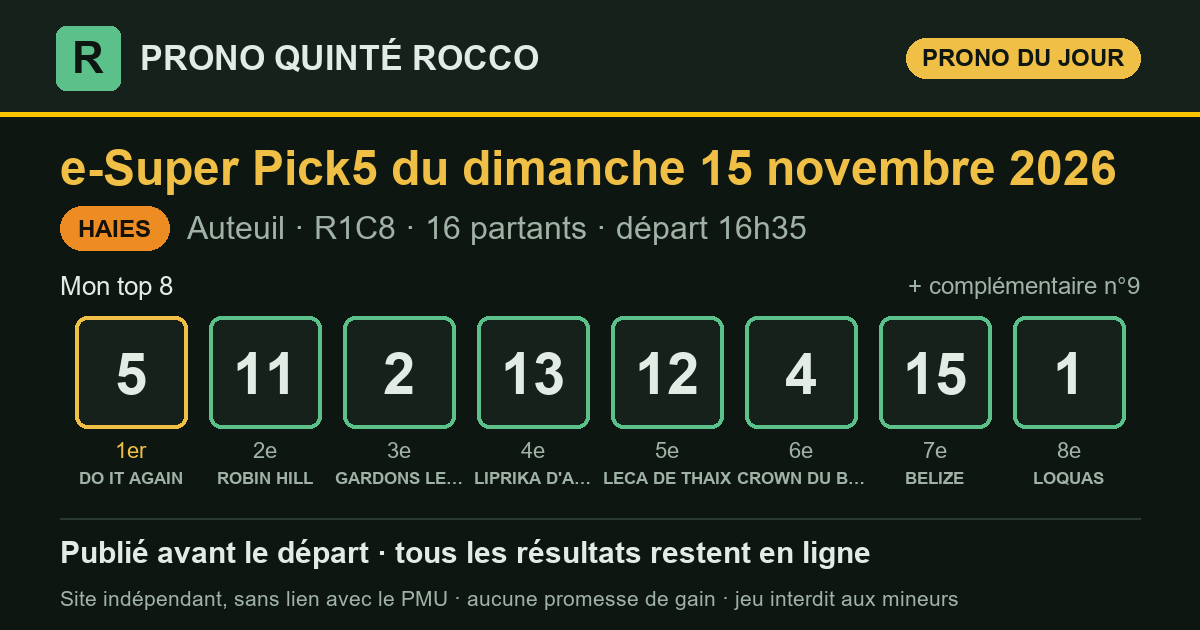
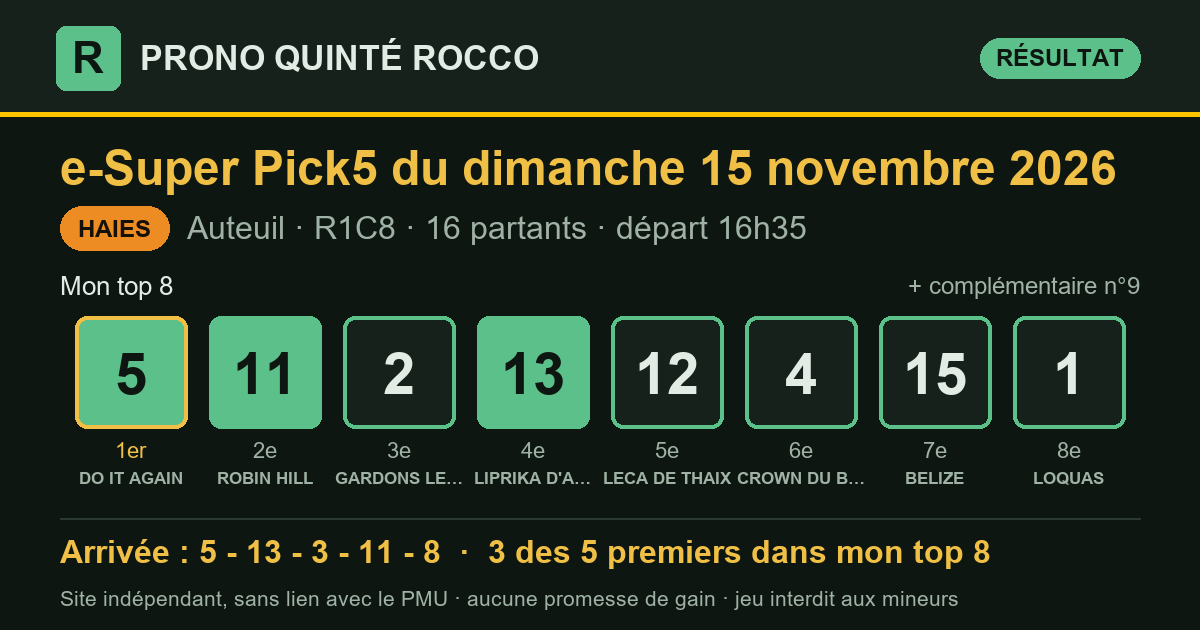
Résultat du e-Super Pick5 2026-11-15 Auteuil R1C8 — publié le 15/11/2026 16:56 (heure de Paris)

diff --git a/superpick5-partants.html b/superpick5-partants.html
@@ -3,7 +3,7 @@
 <head>
 <meta charset="utf-8">
 <meta name="viewport" content="width=device-width, initial-scale=1, viewport-fit=cover">
-<title>Partants du Super Pick 5 du dimanche 15 novembre 2026 : Prix Rmc - Prix Count Schomberg — Prono Quinté Rocco</title>
+<title>Partants du Super Pick 5 du lundi 16 novembre 2026 : Prix de Paimpol — Prono Quinté Rocco</title>
 <meta name="description" content="Les partants du prochain Super Pick 5 (e-Super Pick5 ; programme officiel du PMU), avec le rang de chaque cheval dans mon prono et les liens vers les pronostics de la presse.">
 <link rel="canonical" href="https://prono-quinte-rocco.fr/superpick5-partants.html">
 <link rel="stylesheet" href="style.css?v=16feb868">
@@ -13,7 +13,7 @@
 <meta property="og:site_name" content="Prono Quinté Rocco">
 <meta property="og:locale" content="fr_FR">
 <meta property="og:type" content="website">
-<meta property="og:title" content="Partants du Super Pick 5 du dimanche 15 novembre 2026 : Prix Rmc - Prix Count Schomberg — Prono Quinté Rocco">
+<meta property="og:title" content="Partants du Super Pick 5 du lundi 16 novembre 2026 : Prix de Paimpol — Prono Quinté Rocco">
 <meta property="og:description" content="Les partants du prochain Super Pick 5 (e-Super Pick5 ; programme officiel du PMU), avec le rang de chaque cheval dans mon prono et les liens vers les pronostics de la presse.">
 <meta property="og:url" content="https://prono-quinte-rocco.fr/superpick5-partants.html">
 <meta name="twitter:card" content="summary">
@@ -30,100 +30,90 @@
   <p class="surtitre">Programme officiel du PMU</p>
   <h1>Les partants du prochain <span class="nobr">e-Super Pick5</span></h1>
   <div class="fiche-course">
-    <p class="fiche-date">Dimanche 15 novembre 2026</p>
-    <div class="fiche-rc"><span class="pastille" title="Réunion 1">R1</span><span class="pastille" title="Course 8">C8</span><span class="fiche-nom">Prix Rmc - Prix Count Schomberg</span></div>
-    <p class="meta"><span class="type t-haies">Haies</span>Auteuil · 4 300 m · 16 partants</p>
-    <p class="fiche-depart">Départ <b>16:35</b> <span>heure de Paris</span></p>
+    <p class="fiche-date">Lundi 16 novembre 2026</p>
+    <div class="fiche-rc"><span class="pastille" title="Réunion 1">R1</span><span class="pastille" title="Course 7">C7</span><span class="fiche-nom">Prix de Paimpol</span></div>
+    <p class="meta"><span class="type t-attele">Trot attelé</span>Vincennes · 2 700 m · 14 partants</p>
+    <p class="fiche-depart">Départ <b>17:25</b> <span>heure de Paris</span></p>
   </div>
   <p class="surtitre">Les pronostics ailleurs sur le web</p>
-  <div class="liens"><a class="lien-ext" href="https://www.turfoo.fr/programmes-courses/261115/reunion1-auteuil/course8-prix-rmc-prix-count-schomberg/pronostics-presse/" rel="noopener" target="_blank"><b>Les pronostics de la presse →</b><span>sur Turfoo (site extérieur)</span></a><a class="lien-ext" href="https://www.geny.com/programme/2026-11-15" rel="noopener" target="_blank"><b>Partants et pronostics →</b><span>programme du jour sur Geny (site extérieur)</span></a></div>
+  <div class="liens"><a class="lien-ext" href="https://www.turfoo.fr/programmes-courses/261116/reunion1-vincennes/course7-prix-de-paimpol/pronostics-presse/" rel="noopener" target="_blank"><b>Les pronostics de la presse →</b><span>sur Turfoo (site extérieur)</span></a><a class="lien-ext" href="https://www.geny.com/programme/2026-11-16" rel="noopener" target="_blank"><b>Partants et pronostics →</b><span>programme du jour sur Geny (site extérieur)</span></a></div>
   <div class="liste-boite"><table class="liste-partants">
     <thead><tr><th>N°</th><th>Cheval</th><th class="cote"><span class="long">Cote du matin</span><span class="court">Cote</span></th>
     <th class="ia"><span class="long">Mon prono</span><span class="court">Prono</span></th></tr></thead>
     <tbody><tr>
   <td><span class="tapis petit">1</span></td>
-  <td><span class="cheval">LOQUAS</span><span class="sous">K.NABET · Y.FOUIN (S)</span></td>
-  <td class="cote num">10,0</td>
-  <td class="ia"><span class="etat place">8<sup>e</sup></span></td>
+  <td><span class="cheval">LOUBIANA DU BOURG</span><span class="sous">A. THOMAS · A. THOMAS</span></td>
+  <td class="cote num">—</td>
+  <td class="ia">—</td>
 </tr><tr>
   <td><span class="tapis petit">2</span></td>
-  <td><span class="cheval">GARDONS LE SOURIRE</span><span class="sous">T.CHEVILLARD · GAB.LEENDERS (S)</span></td>
-  <td class="cote num">15,0</td>
-  <td class="ia"><span class="etat place">3<sup>e</sup></span></td>
+  <td><span class="cheval">LA MISS ROYALE</span><span class="sous">PH. DAUGEARD · PH. DAUGEARD</span></td>
+  <td class="cote num">—</td>
+  <td class="ia">—</td>
 </tr><tr>
   <td><span class="tapis petit">3</span></td>
-  <td><span class="cheval">JAGUAR DU BERLAIS</span><span class="sous">THO .JOURNIAC · E.GRALL (S)</span></td>
-  <td class="cote num">12,0</td>
+  <td><span class="cheval">LILIE D&#x27;OMAHA</span><span class="sous">M. ABRIVARD · M. ABRIVARD</span></td>
+  <td class="cote num">—</td>
   <td class="ia">—</td>
 </tr><tr>
   <td><span class="tapis petit">4</span></td>
-  <td><span class="cheval">CROWN DU BERLAIS</span><span class="sous">L.ZULIANI · LAGENESTE &amp; MACAIRE (S)</span></td>
-  <td class="cote num">12,0</td>
-  <td class="ia"><span class="etat place">6<sup>e</sup></span></td>
+  <td><span class="cheval">LESPANA DU BOCAGE</span><span class="sous">B. ROCHARD · M. SASSIER</span></td>
+  <td class="cote num">—</td>
+  <td class="ia">—</td>
 </tr><tr>
   <td><span class="tapis petit">5</span></td>
-  <td><span class="cheval">DO IT AGAIN</span><span class="sous">J.REVELEY · N. GEORGE &amp; A. ZETTERHOLM</span></td>
-  <td class="cote num">6,9</td>
-  <td class="ia"><span class="etat place">1<sup>er</sup></span></td>
+  <td><span class="cheval">LADY DU CHATELET</span><span class="sous">TH. BIZOUX · CL. THOMAIN</span></td>
+  <td class="cote num">—</td>
+  <td class="ia">—</td>
 </tr><tr>
   <td><span class="tapis petit">6</span></td>
-  <td><span class="cheval">MOTY MARC</span><span class="sous">B.LE CLERC · F.BELLEMERE</span></td>
-  <td class="cote num">31,0</td>
+  <td><span class="cheval">LOLITA STEED</span><span class="sous">M. IONESCU · R. DERIEUX</span></td>
+  <td class="cote num">—</td>
   <td class="ia">—</td>
 </tr><tr>
   <td><span class="tapis petit">7</span></td>
-  <td><span class="cheval">SAINT ROBIN</span><span class="sous">G.FAIVRE-PICON · GAB.LEENDERS (S)</span></td>
-  <td class="cote num">50,0</td>
+  <td><span class="cheval">LUNE LUMALO</span><span class="sous">P.PH. PLOQUIN · J.G. VAN EECKHAUTE</span></td>
+  <td class="cote num">—</td>
   <td class="ia">—</td>
 </tr><tr>
   <td><span class="tapis petit">8</span></td>
-  <td><span class="cheval">JOST</span><span class="sous">L.PHILIPPERON · M.SEROR (S)</span></td>
-  <td class="cote num">11,0</td>
+  <td><span class="cheval">LA STAR</span><span class="sous">A. ABRIVARD · Mme S. RAIMOND</span></td>
+  <td class="cote num">—</td>
   <td class="ia">—</td>
 </tr><tr>
   <td><span class="tapis petit">9</span></td>
-  <td><span class="cheval">LEMNOS</span><span class="sous">A.ZULIANI · E.ANDIGNE D&#x27;</span></td>
-  <td class="cote num">25,0</td>
-  <td class="ia"><span class="etat place">compl.</span></td>
+  <td><span class="cheval">LYRE D&#x27;ERABLE</span><span class="sous">D. THOMAIN · CL. THOMAIN</span></td>
+  <td class="cote num">—</td>
+  <td class="ia">—</td>
 </tr><tr>
   <td><span class="tapis petit">10</span></td>
-  <td><span class="cheval">NEVER RISK</span><span class="sous">N.FERREIRA · H.MERIENNE (S)</span></td>
-  <td class="cote num">31,0</td>
+  <td><span class="cheval">LADY DES ARRIS</span><span class="sous">A. COLLETTE · V. LEBARQUE</span></td>
+  <td class="cote num">—</td>
   <td class="ia">—</td>
 </tr><tr>
   <td><span class="tapis petit">11</span></td>
-  <td><span class="cheval">ROBIN HILL</span><span class="sous">T.BEAURAIN · L.CARBERRY (S)</span></td>
-  <td class="cote num">7,4</td>
-  <td class="ia"><span class="etat place">2<sup>e</sup></span></td>
-</tr><tr>
-  <td><span class="tapis petit">12</span></td>
-  <td><span class="cheval">LECA DE THAIX</span><span class="sous">M.CHAILLOLEAU · E.ANDIGNE D&#x27;</span></td>
-  <td class="cote num">27,0</td>
-  <td class="ia"><span class="etat place">5<sup>e</sup></span></td>
-</tr><tr>
-  <td><span class="tapis petit">13</span></td>
-  <td><span class="cheval">LIPRIKA D&#x27;ANJOU</span><span class="sous">F.GILES · H.MERIENNE (S)</span></td>
-  <td class="cote num">7,9</td>
-  <td class="ia"><span class="etat place">4<sup>e</sup></span></td>
-</tr><tr>
-  <td><span class="tapis petit">14</span></td>
-  <td><span class="cheval">SOLIGO</span><span class="sous">A.CHESNEAU · Y.FOUIN (S)</span></td>
-  <td class="cote num">11,0</td>
+  <td><span class="cheval">LEONTINE CASH</span><span class="sous">E. RAFFIN · P. HACHIN</span></td>
+  <td class="cote num">—</td>
   <td class="ia">—</td>
 </tr><tr>
-  <td><span class="tapis petit">15</span></td>
-  <td><span class="cheval">BELIZE</span><span class="sous">G.MEUNIER · D.BRESSOU</span></td>
-  <td class="cote num">11,0</td>
-  <td class="ia"><span class="etat place">7<sup>e</sup></span></td>
+  <td><span class="tapis petit">12</span></td>
+  <td><span class="cheval">LYLOU DES THUYAS</span><span class="sous">A. REBECHE · P.Y. VERVA</span></td>
+  <td class="cote num">—</td>
+  <td class="ia">—</td>
 </tr><tr>
-  <td><span class="tapis petit">16</span></td>
-  <td><span class="cheval">ESASTAR</span><span class="sous">M.BEHOCARAY · D.BRESSOU</span></td>
-  <td class="cote num">37,0</td>
+  <td><span class="tapis petit">13</span></td>
+  <td><span class="cheval">LA KIFFANCE PIYA</span><span class="sous">S. ERNAULT · S. ERNAULT</span></td>
+  <td class="cote num">—</td>
+  <td class="ia">—</td>
+</tr><tr>
+  <td><span class="tapis petit">14</span></td>
+  <td><span class="cheval">LA CALLAS</span><span class="sous">A. ANDRE · St. PROVOOST</span></td>
+  <td class="cote num">—</td>
   <td class="ia">—</td>
 </tr></tbody>
   </table></div>
-  <p class="meta">La colonne « Mon prono » donne le rang de chaque cheval dans mon top 8, tel qu&#x27;il est publié sur ce site. Sous chaque cheval : jockey · entraîneur. Partants et cotes : programme
-  officiel du PMU, lu le 15/11 à 16:11 (heure de Paris). NP = non-partant.</p>
+  <p class="meta">Mon prono de cette course sera publié le matin de la course, avant le départ. Sous chaque cheval : driver · entraîneur. Partants et cotes : programme
+  officiel du PMU, lu le 15/11 à 16:56 (heure de Paris). NP = non-partant.</p>
 </section>
 </main>
 <footer class="pied">

diff --git a/superpick5.html b/superpick5.html
@@ -16,7 +16,7 @@
 <meta property="og:title" content="Pronostic Super Pick 5 du dimanche 15 novembre 2026 : Prix Rmc - Prix Count Schomberg — Prono Quinté Rocco">
 <meta property="og:description" content="Pronostic Super Pick 5 (e-Super Pick5) du jour : mon top 8, publié avant le départ, puis tous les résultats et le rendement réel.">
 <meta property="og:url" content="https://prono-quinte-rocco.fr/superpick5.html">
-<meta property="og:image" content="https://prono-quinte-rocco.fr/partage/sp5-2026-11-15.png?v=0f32560f">
+<meta property="og:image" content="https://prono-quinte-rocco.fr/partage/sp5-2026-11-15.png?v=a7565b08">
 <meta property="og:image:type" content="image/png">
 <meta property="og:image:width" content="1200">
 <meta property="og:image:height" content="630">
@@ -32,7 +32,7 @@
 <div class="jeux j-sp5" role="navigation" aria-label="Choix du jeu"><a class="jeu jeu-quinte" href="index.html">Quinté+</a><a class="jeu jeu-sp5 actif" href="superpick5.html" aria-current="true">e-Super Pick5<small>entre 17 h et 19 h</small></a></div>
 <main>
 <section class="une" aria-labelledby="t-jour">
-  <p class="surtitre">e-Super Pick5 du jour</p>
+  <p class="surtitre">Dernier e-Super Pick5</p>
   <h1 id="t-jour">Le prono du <span class="nobr">e-Super Pick5</span>, résultats compris</h1>
   <p class="chapo">Le e-Super Pick5 est le nouveau pari du PMU : chaque jour, une course
   dont il faut trouver les cinq premiers. Je l'étudie comme le Quinté+, avec le logiciel
@@ -44,10 +44,13 @@
   <p class="meta">Prix Rmc - Prix Count Schomberg · Auteuil · <strong>R1C8</strong> · 16 partants · <span class="lisib">lisibilité <span class="note" aria-label="note 2 sur 5" title="lisibilité 2/5 : course ouverte"><i class="on"></i><i class="on"></i><i class=""></i><i class=""></i><i class=""></i></span> 2/5</span></p>
   <div class="zone-prono">
     <h3 class="zone-titre">Mon top 8</h3>
-    <ol class="partants" aria-label="Mon top 8"><li><span class="rang">1<sup>er</sup></span><span class="tapis ">5</span><span class="nom">DO IT AGAIN</span></li><li><span class="rang">2<sup>e</sup></span><span class="tapis ">11</span><span class="nom">ROBIN HILL</span></li><li><span class="rang">3<sup>e</sup></span><span class="tapis ">2</span><span class="nom">GARDONS LE SOURIRE</span></li><li><span class="rang">4<sup>e</sup></span><span class="tapis ">13</span><span class="nom">LIPRIKA D&#x27;ANJOU</span></li><li><span class="rang">5<sup>e</sup></span><span class="tapis ">12</span><span class="nom">LECA DE THAIX</span></li><li><span class="rang">6<sup>e</sup></span><span class="tapis ">4</span><span class="nom">CROWN DU BERLAIS</span></li><li><span class="rang">7<sup>e</sup></span><span class="tapis ">15</span><span class="nom">BELIZE</span></li><li><span class="rang">8<sup>e</sup></span><span class="tapis ">1</span><span class="nom">LOQUAS</span></li><li><span class="rang">compl.</span><span class="tapis creux">9</span><span class="nom">LEMNOS</span></li></ol>
+    <ol class="partants" aria-label="Mon top 8"><li><span class="rang">1<sup>er</sup></span><span class="tapis plein">5</span><span class="nom">DO IT AGAIN</span></li><li><span class="rang">2<sup>e</sup></span><span class="tapis plein">11</span><span class="nom">ROBIN HILL</span></li><li><span class="rang">3<sup>e</sup></span><span class="tapis ">2</span><span class="nom">GARDONS LE SOURIRE</span></li><li><span class="rang">4<sup>e</sup></span><span class="tapis plein">13</span><span class="nom">LIPRIKA D&#x27;ANJOU</span></li><li><span class="rang">5<sup>e</sup></span><span class="tapis ">12</span><span class="nom">LECA DE THAIX</span></li><li><span class="rang">6<sup>e</sup></span><span class="tapis ">4</span><span class="nom">CROWN DU BERLAIS</span></li><li><span class="rang">7<sup>e</sup></span><span class="tapis ">15</span><span class="nom">BELIZE</span></li><li><span class="rang">8<sup>e</sup></span><span class="tapis ">1</span><span class="nom">LOQUAS</span></li><li><span class="rang">compl.</span><span class="tapis creux">9</span><span class="nom">LEMNOS</span></li></ol>
     <div class="pied-carte"><span>Analysé le 15/11 à 09:16 · en ligne le 15/11 à 09:24 · départ à 16:35 (heure de Paris)</span><span><a href="superpick5/2026-11-15.html">Détail de la course</a></span></div>
   </div>
-  <div class="zone-arrivee attente"><p>L'arrivée officielle s'affichera ici après la course.</p></div>
+  <div class="zone-arrivee">
+    <div class="zone-tete"><h3 class="zone-titre">Arrivée officielle</h3><span class="etat non">3 des 5 premiers dans mon top 8</span><span class="etat gagne">mon 1er (n°5) : gagnant</span></div>
+    <ol class="partants" aria-label="Arrivée officielle"><li><span class="rang">1<sup>er</sup></span><span class="tapis plein">5</span><span class="nom">DO IT AGAIN</span></li><li><span class="rang">2<sup>e</sup></span><span class="tapis plein">13</span><span class="nom">LIPRIKA D&#x27;ANJOU</span></li><li><span class="rang">3<sup>e</sup></span><span class="tapis hors">3</span><span class="nom">JAGUAR DU BERLAIS</span></li><li><span class="rang">4<sup>e</sup></span><span class="tapis plein">11</span><span class="nom">ROBIN HILL</span></li><li><span class="rang">5<sup>e</sup></span><span class="tapis hors">8</span><span class="nom">JOST</span></li></ol>
+  </div>
 </article>
 </section>
 <section class="suivre" aria-label="Suivre et soutenir">
@@ -77,9 +80,9 @@
 </section>
 <section class="bilan" aria-labelledby="t-bilan">
   <h2 id="t-bilan">Mon bilan depuis le 5 novembre 2026</h2>
-  <div class="tableau chiffres"><div class="case"><span class="gros ">82 %</span><span class="lib">des arrivants trouvés dans mon top 8</span><span class="ref">un top 8 tiré au hasard : 54 %</span></div><div class="case"><span class="gros ">75 %</span><span class="lib">des gagnants présents dans mon top 8</span><span class="ref"></span></div><div class="case"><span class="gros ">62 %</span><span class="lib">mon 1er placé</span><span class="ref">sur 8 Super Pick5</span></div><div class="case"><span class="gros gain">1,02 €</span><span class="lib">rendus pour 1 € joué placé sur mon 1er</span><span class="ref">rapports officiels PMU</span></div><div class="case"><span class="gros perte">0,80 €</span><span class="lib">rendus pour 1 € joué en e-Super Pick5 combiné sur mon top 8</span><span class="ref">56 combinaisons, rapports PMU.fr, sur 8 Super Pick5</span></div></div>
+  <div class="tableau chiffres"><div class="case"><span class="gros ">80 %</span><span class="lib">des arrivants trouvés dans mon top 8</span><span class="ref">un top 8 tiré au hasard : 54 %</span></div><div class="case"><span class="gros ">78 %</span><span class="lib">des gagnants présents dans mon top 8</span><span class="ref"></span></div><div class="case"><span class="gros ">67 %</span><span class="lib">mon 1er placé</span><span class="ref">sur 9 Super Pick5</span></div><div class="case"><span class="gros gain">1,14 €</span><span class="lib">rendus pour 1 € joué placé sur mon 1er</span><span class="ref">rapports officiels PMU</span></div><div class="case"><span class="gros perte">0,71 €</span><span class="lib">rendus pour 1 € joué en e-Super Pick5 combiné sur mon top 8</span><span class="ref">56 combinaisons, rapports PMU.fr, sur 9 Super Pick5</span></div></div>
   <p class="avertissement">Moins de 1 € rendu pour 1 € joué : suivre mon prono à la lettre fait <strong>perdre de l'argent</strong> sur cette période. Il sert à analyser une course, pas à promettre un gain.</p>
-  <p class="avertissement">Sur 8 courses seulement : beaucoup trop peu pour en tirer quoi que ce soit.</p>
+  <p class="avertissement">Sur 9 courses seulement : beaucoup trop peu pour en tirer quoi que ce soit.</p>
 </section>
 <section class="texte en-bref" aria-labelledby="t-bref">
   <h2 id="t-bref">Le e-Super Pick5 en bref</h2>

diff --git a/superpick5/2026-11-15.html b/superpick5/2026-11-15.html
@@ -16,7 +16,7 @@
 <meta property="og:title" content="Pronostic Super Pick 5 du dimanche 15 novembre 2026 : Prix Rmc - Prix Count Schomberg à Auteuil — Prono Quinté Rocco">
 <meta property="og:description" content="Prono Super Pick 5 (e-Super Pick5) du dimanche 15 novembre 2026 (Prix Rmc - Prix Count Schomberg, Auteuil) : mon top 8, l&#x27;arrivée officielle et les rapports PMU.fr.">
 <meta property="og:url" content="https://prono-quinte-rocco.fr/superpick5/2026-11-15.html">
-<meta property="og:image" content="https://prono-quinte-rocco.fr/partage/sp5-2026-11-15.png?v=0f32560f">
+<meta property="og:image" content="https://prono-quinte-rocco.fr/partage/sp5-2026-11-15.png?v=a7565b08">
 <meta property="og:image:type" content="image/png">
 <meta property="og:image:width" content="1200">
 <meta property="og:image:height" content="630">
@@ -36,15 +36,25 @@
   <h1>Pronostic <span class="nobr">e-Super Pick5</span> du dimanche 15 novembre 2026</h1>
   <p class="chapo">Prix Rmc - Prix Count Schomberg · Auteuil · R1C8 · Haies · 16 partants</p>
   <article class="carte-course">
-  <div class="tete"><h2>Mon prono</h2><span class="type t-haies">Haies</span></div>
+  <div class="tete"><h2>Mon prono et l&#x27;arrivée officielle</h2><span class="type t-haies">Haies</span></div>
   <p class="meta">Prix Rmc - Prix Count Schomberg · Auteuil · <strong>R1C8</strong> · 16 partants · <span class="lisib">lisibilité <span class="note" aria-label="note 2 sur 5" title="lisibilité 2/5 : course ouverte"><i class="on"></i><i class="on"></i><i class=""></i><i class=""></i><i class=""></i></span> 2/5</span></p>
   <div class="zone-prono">
     <h3 class="zone-titre">Mon top 8</h3>
-    <ol class="partants" aria-label="Mon top 8"><li><span class="rang">1<sup>er</sup></span><span class="tapis ">5</span><span class="nom">DO IT AGAIN</span></li><li><span class="rang">2<sup>e</sup></span><span class="tapis ">11</span><span class="nom">ROBIN HILL</span></li><li><span class="rang">3<sup>e</sup></span><span class="tapis ">2</span><span class="nom">GARDONS LE SOURIRE</span></li><li><span class="rang">4<sup>e</sup></span><span class="tapis ">13</span><span class="nom">LIPRIKA D&#x27;ANJOU</span></li><li><span class="rang">5<sup>e</sup></span><span class="tapis ">12</span><span class="nom">LECA DE THAIX</span></li><li><span class="rang">6<sup>e</sup></span><span class="tapis ">4</span><span class="nom">CROWN DU BERLAIS</span></li><li><span class="rang">7<sup>e</sup></span><span class="tapis ">15</span><span class="nom">BELIZE</span></li><li><span class="rang">8<sup>e</sup></span><span class="tapis ">1</span><span class="nom">LOQUAS</span></li><li><span class="rang">compl.</span><span class="tapis creux">9</span><span class="nom">LEMNOS</span></li></ol>
+    <ol class="partants" aria-label="Mon top 8"><li><span class="rang">1<sup>er</sup></span><span class="tapis plein">5</span><span class="nom">DO IT AGAIN</span></li><li><span class="rang">2<sup>e</sup></span><span class="tapis plein">11</span><span class="nom">ROBIN HILL</span></li><li><span class="rang">3<sup>e</sup></span><span class="tapis ">2</span><span class="nom">GARDONS LE SOURIRE</span></li><li><span class="rang">4<sup>e</sup></span><span class="tapis plein">13</span><span class="nom">LIPRIKA D&#x27;ANJOU</span></li><li><span class="rang">5<sup>e</sup></span><span class="tapis ">12</span><span class="nom">LECA DE THAIX</span></li><li><span class="rang">6<sup>e</sup></span><span class="tapis ">4</span><span class="nom">CROWN DU BERLAIS</span></li><li><span class="rang">7<sup>e</sup></span><span class="tapis ">15</span><span class="nom">BELIZE</span></li><li><span class="rang">8<sup>e</sup></span><span class="tapis ">1</span><span class="nom">LOQUAS</span></li><li><span class="rang">compl.</span><span class="tapis creux">9</span><span class="nom">LEMNOS</span></li></ol>
     <div class="pied-carte"><span>Analysé le 15/11 à 09:16 · en ligne le 15/11 à 09:24 · départ à 16:35 (heure de Paris)</span><span></span></div>
   </div>
-  <div class="zone-arrivee attente"><p>L'arrivée officielle s'affichera ici après la course.</p></div>
+  <div class="zone-arrivee">
+    <div class="zone-tete"><h3 class="zone-titre">Arrivée officielle</h3><span class="etat non">3 des 5 premiers dans mon top 8</span><span class="etat gagne">mon 1er (n°5) : gagnant</span></div>
+    <ol class="partants" aria-label="Arrivée officielle"><li><span class="rang">1<sup>er</sup></span><span class="tapis plein">5</span><span class="nom">DO IT AGAIN</span></li><li><span class="rang">2<sup>e</sup></span><span class="tapis plein">13</span><span class="nom">LIPRIKA D&#x27;ANJOU</span></li><li><span class="rang">3<sup>e</sup></span><span class="tapis hors">3</span><span class="nom">JAGUAR DU BERLAIS</span></li><li><span class="rang">4<sup>e</sup></span><span class="tapis plein">11</span><span class="nom">ROBIN HILL</span></li><li><span class="rang">5<sup>e</sup></span><span class="tapis hors">8</span><span class="nom">JOST</span></li></ol>
+  </div>
 </article>
+<section class="carte-course rapports" aria-labelledby="t-rap">
+  <div class="tete"><h2 id="t-rap">Les rapports</h2></div>
+  <div class="deux">
+    <div><h3>Ce qu'aurait rendu mon prono</h3><dl class="kv"><dt>1 € placé sur mon 1er (n°5)</dt><dd class="gain">2,10 €</dd><dt>1 € gagnant sur mon 1er</dt><dd class="gain">5,00 €</dd><dt>e-Super Pick5 combiné sur mon top 8 (mise 112 €)</dt><dd class="perte">0,00 €</dd><dd class="dont">aucune combinaison gagnante</dd></dl></div>
+    <div><h3>Rapports officiels</h3><dl class="kv"><dt>e-Super Pick5 Ordre (2 €)</dt><dd>11 328,80 €</dd><dt>e-Super Pick5 Super Désordre (2 €)</dt><dd>381,20 €</dd><dt>e-Super Pick5 Désordre (2 €)</dt><dd>165,60 €</dd></dl></div>
+  </div>
+</section>
 </section>
 </main>
 <footer class="pied">

diff --git a/superpick5-resultats.html b/superpick5-resultats.html
@@ -52,12 +52,12 @@
     <th colspan="4" class="res g-res">Le résultat officiel</th></tr>
     <tr><th>Date</th><th>Course</th><th>Top 8</th><th class="c-lis">Lisibilité</th><th class="res c-arr">Arrivée</th>
     <th class="res">Trouvés</th><th class="res">Mon 1er</th><th class="res mont">Super Pick5 top 8<br><small>(mise 112 €)</small></th></tr></thead>
-    <tbody><tr class="attente">
+    <tbody><tr>
   <td class="c-date"><a href="superpick5/2026-11-15.html">15/11</a></td>
   <td class="c-course">Auteuil<br><span class="meta">R1C8</span><span class="type t-haies petit">Haies</span></td>
-  <td class="c-top8" data-label="Mon top 8"><div class="rangee"><span class="tapis petit">5</span><span class="tapis petit">11</span><span class="tapis petit">2</span><span class="tapis petit">13</span><span class="tapis petit">12</span><span class="tapis petit">4</span><span class="tapis petit">15</span><span class="tapis petit">1</span></div></td>
+  <td class="c-top8" data-label="Mon top 8"><div class="rangee"><span class="tapis plein petit">5</span><span class="tapis plein petit">11</span><span class="tapis petit">2</span><span class="tapis plein petit">13</span><span class="tapis petit">12</span><span class="tapis petit">4</span><span class="tapis petit">15</span><span class="tapis petit">1</span></div></td>
   <td class="c-lis" data-label="Lisibilité"><span class="note" aria-label="note 2 sur 5" title="lisibilité 2/5 : course ouverte"><i class="on"></i><i class="on"></i><i class=""></i><i class=""></i><i class=""></i></span> 2/5</td>
-  <td class="res c-arr" data-label="Arrivée"><span class="etat attente">en attente</span></td><td class="res num c-trouves" data-label="Trouvés">—</td><td class="res c-premier" data-label="Mon 1er"><span class="etat attente">—</span></td><td class="res mont c-mont" data-label="Super Pick5 top 8 (mise 112 €)">—</td>
+  <td class="res c-arr" data-label="Arrivée"><div class="rangee"><span class="tapis plein petit" title="1er">5</span><span class="tapis plein petit" title="2e">13</span><span class="tapis hors petit" title="3e">3</span><span class="tapis plein petit" title="4e">11</span><span class="tapis hors petit" title="5e">8</span></div></td><td class="res num c-trouves" data-label="Trouvés">3/5</td><td class="res c-premier" data-label="Mon 1er"><span class="etat gagne">gagnant</span></td><td class="res mont c-mont perte" data-label="Super Pick5 top 8 (mise 112 €)" title="perte nette : 112,00 €">0,00 €</td>
 </tr><tr>
   <td class="c-date"><a href="superpick5/2026-11-14.html">14/11</a></td>
   <td class="c-course">Vincennes<br><span class="meta">R1C7</span><span class="type t-attele petit">Attelé</span></td>
@@ -121,9 +121,9 @@
 </section>
 <section class="bilan" aria-labelledby="t-bilan">
   <h2 id="t-bilan">Mon bilan depuis le 5 novembre 2026</h2>
-  <div class="tableau chiffres"><div class="case"><span class="gros ">82 %</span><span class="lib">des arrivants trouvés dans mon top 8</span><span class="ref">un top 8 tiré au hasard : 54 %</span></div><div class="case"><span class="gros ">75 %</span><span class="lib">des gagnants présents dans mon top 8</span><span class="ref"></span></div><div class="case"><span class="gros ">62 %</span><span class="lib">mon 1er placé</span><span class="ref">sur 8 Super Pick5</span></div><div class="case"><span class="gros gain">1,02 €</span><span class="lib">rendus pour 1 € joué placé sur mon 1er</span><span class="ref">rapports officiels PMU</span></div><div class="case"><span class="gros perte">0,80 €</span><span class="lib">rendus pour 1 € joué en e-Super Pick5 combiné sur mon top 8</span><span class="ref">56 combinaisons, rapports PMU.fr, sur 8 Super Pick5</span></div></div>
+  <div class="tableau chiffres"><div class="case"><span class="gros ">80 %</span><span class="lib">des arrivants trouvés dans mon top 8</span><span class="ref">un top 8 tiré au hasard : 54 %</span></div><div class="case"><span class="gros ">78 %</span><span class="lib">des gagnants présents dans mon top 8</span><span class="ref"></span></div><div class="case"><span class="gros ">67 %</span><span class="lib">mon 1er placé</span><span class="ref">sur 9 Super Pick5</span></div><div class="case"><span class="gros gain">1,14 €</span><span class="lib">rendus pour 1 € joué placé sur mon 1er</span><span class="ref">rapports officiels PMU</span></div><div class="case"><span class="gros perte">0,71 €</span><span class="lib">rendus pour 1 € joué en e-Super Pick5 combiné sur mon top 8</span><span class="ref">56 combinaisons, rapports PMU.fr, sur 9 Super Pick5</span></div></div>
   <p class="avertissement">Moins de 1 € rendu pour 1 € joué : suivre mon prono à la lettre fait <strong>perdre de l'argent</strong> sur cette période. Il sert à analyser une course, pas à promettre un gain.</p>
-  <p class="avertissement">Sur 8 courses seulement : beaucoup trop peu pour en tirer quoi que ce soit.</p>
+  <p class="avertissement">Sur 9 courses seulement : beaucoup trop peu pour en tirer quoi que ce soit.</p>
 </section>
 </main>
 <footer class="pied">

diff --git a/index.html b/index.html
@@ -16,7 +16,7 @@
 <meta property="og:title" content="Pronostics Quinté+ et Super Pick 5 du dimanche 15 novembre 2026 — Prono Quinté Rocco">
 <meta property="og:description" content="Pronostics Quinté+ (Prix la Haye Jousselin) et Super Pick 5 (Prix Rmc - Prix Count Schomberg) du jour : mes top 8, publiés avant le départ, puis tous les résultats et le rendement réel.">
 <meta property="og:url" content="https://prono-quinte-rocco.fr/">
-<meta property="og:image" content="https://prono-quinte-rocco.fr/partage/jour-2026-11-15.png?v=ea8fc5c4">
+<meta property="og:image" content="https://prono-quinte-rocco.fr/partage/jour-2026-11-15.png?v=e064f80b">
 <meta property="og:image:type" content="image/png">
 <meta property="og:image:width" content="1200">
 <meta property="og:image:height" content="630">

diff --git a/partants.html b/partants.html
@@ -118,7 +118,7 @@
 </tr></tbody>
   </table></div>
   <p class="meta">Mon prono de cette course sera publié le matin de la course, avant le départ. Sous chaque cheval : driver · entraîneur. Partants et cotes : programme
-  officiel du PMU, lu le 15/11 à 16:11 (heure de Paris). NP = non-partant.</p>
+  officiel du PMU, lu le 15/11 à 16:56 (heure de Paris). NP = non-partant.</p>
 </section>
 </main>
 <footer class="pied">
